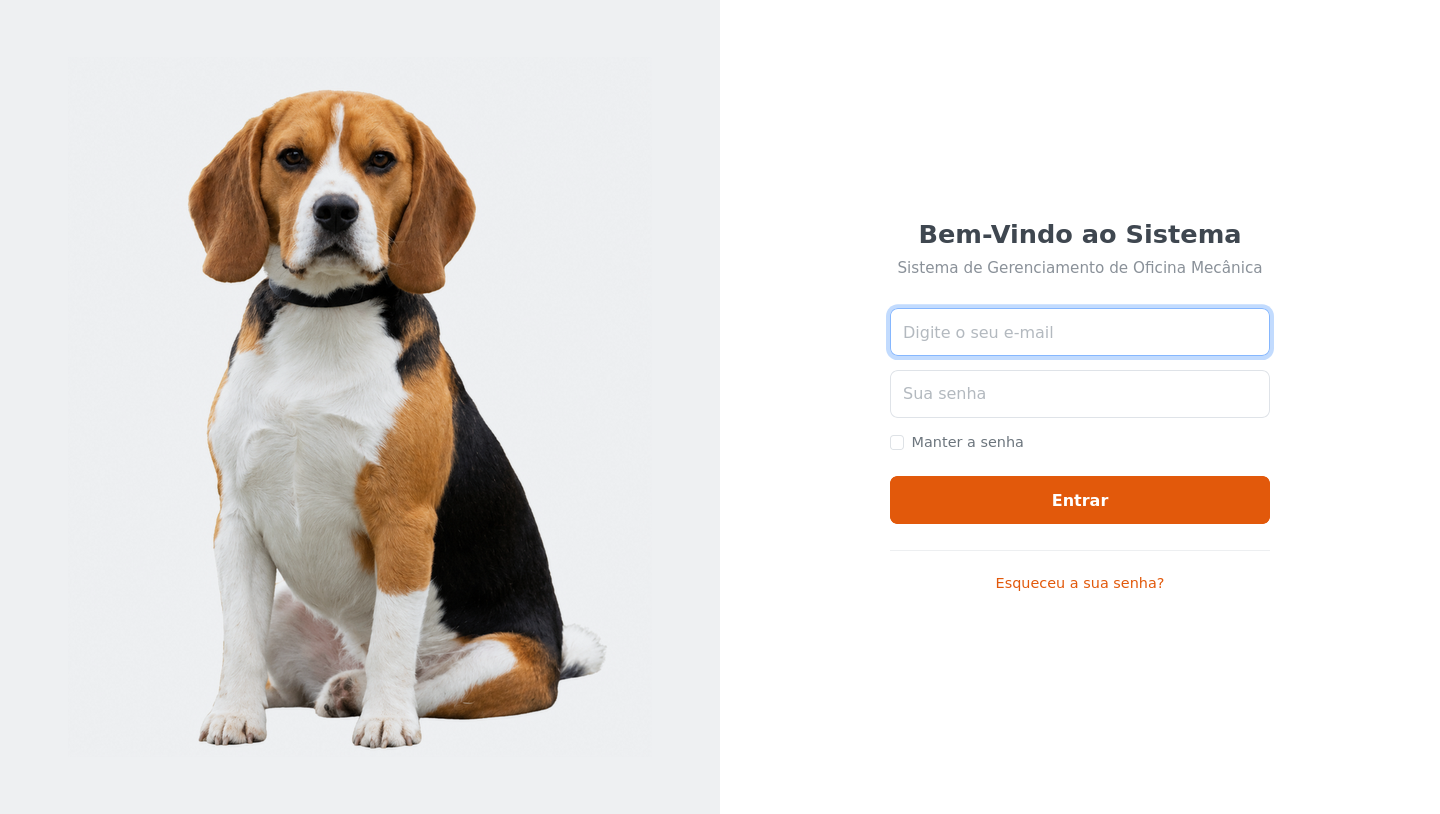
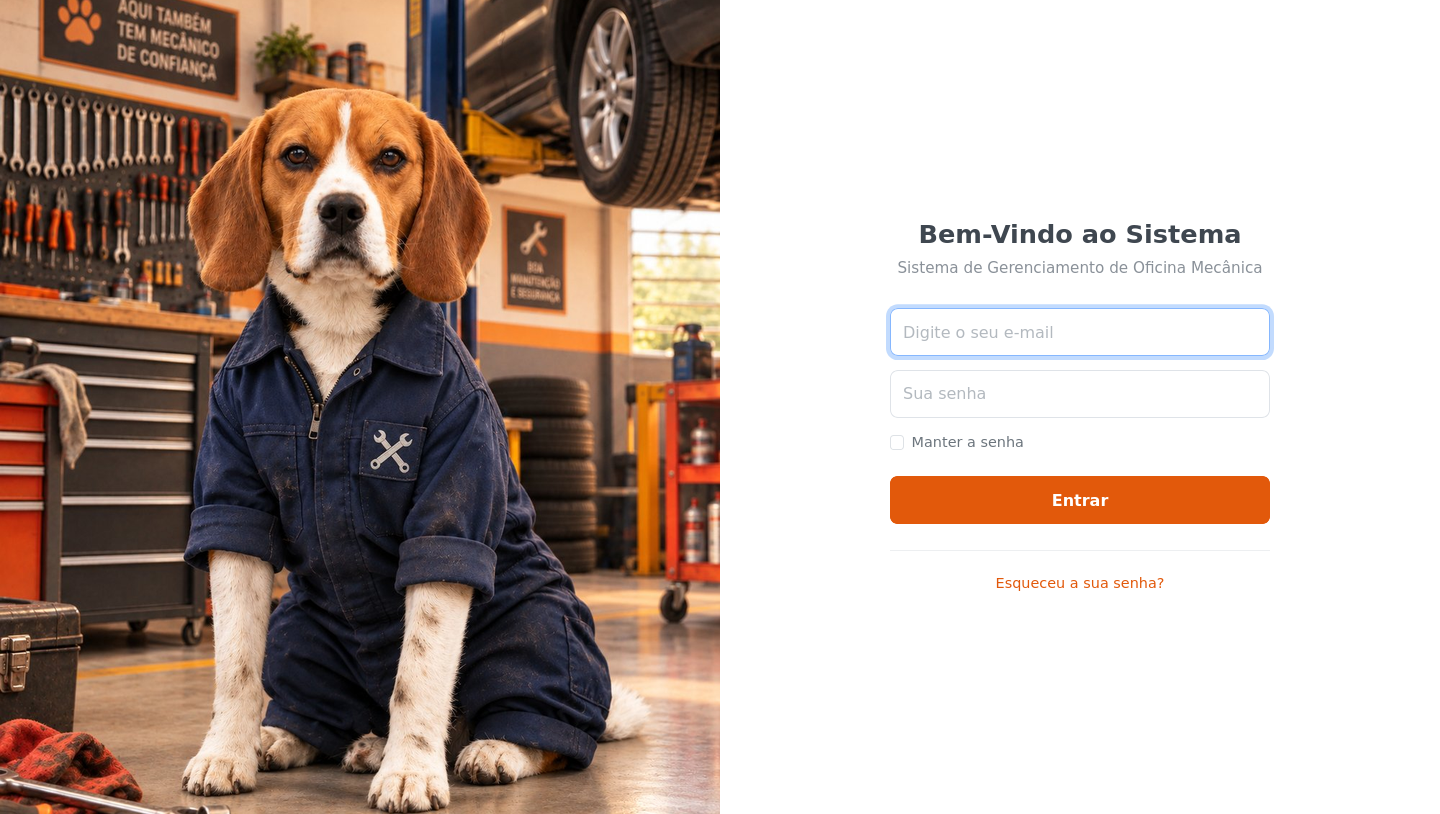
feat(ui): foto do mascote mecanico no login e remove aviso da tela de usuarios
A foto nova tem cenario proprio, entao passa a ocupar toda a metade
esquerda (object-fit: cover) em vez do recorte sobre fundo cinza.
Convertida para JPEG: 215 KB contra 1,5 MB do PNG original.

Atualiza os prints 00-login e 26-usuarios.

diff --git a/src/main/resources/static/css/style.css b/src/main/resources/static/css/style.css
@@ -449,19 +449,20 @@ body.recolhido .bl-grupo {
 
 .login-foto {
   flex: 1 1 50%;
-  display: grid;
-  place-items: center;
-  padding: 2rem;
-  background: #eef0f2;
+  position: relative;
+  overflow: hidden;
+  background: var(--oficina-grafite);
 }
 
-/* A foto tem fundo branco. O 'multiply' apaga esse branco contra o cinza do
-   painel, então o cachorro aparece recortado, sem retângulo em volta. */
+/* A foto tem cenário próprio (a oficina), então ocupa a metade inteira.
+   O 'cover' corta as sobras sem distorcer; o foco fica no rosto do cachorro. */
 .login-foto img {
-  max-width: 100%;
-  max-height: 86vh;
-  object-fit: contain;
-  mix-blend-mode: multiply;
+  position: absolute;
+  inset: 0;
+  width: 100%;
+  height: 100%;
+  object-fit: cover;
+  object-position: center 30%;
 }
 
 .login-painel {
@@ -592,12 +593,11 @@ body.recolhido .bl-grupo {
   }
 
   .login-foto {
-    flex: 0 0 30vh;
-    padding: 1rem;
+    flex: 0 0 34vh;
   }
 
   .login-foto img {
-    max-height: 26vh;
+    object-position: center 25%;
   }
 
   .login-painel {

diff --git a/src/main/resources/static/index.html b/src/main/resources/static/index.html
@@ -268,15 +268,6 @@
 
       <!-- ===================== USUÁRIOS (só ADMIN) ===================== -->
       <section class="pagina" id="pgUsuarios">
-        <div class="alert alert-secondary d-flex gap-2 align-items-start">
-          <i class="bi bi-shield-lock fs-5"></i>
-          <div class="small mb-0">
-            Contas que entram no sistema. A senha nunca é guardada: o banco grava apenas
-            o resultado de um <strong>PBKDF2</strong> com sal aleatório.
-            <strong>ADMIN</strong> administra usuários; <strong>ATENDENTE</strong> opera o dia a dia.
-          </div>
-        </div>
-
         <div class="barra-acoes">
           <div class="input-group busca">
             <span class="input-group-text"><i class="bi bi-search"></i></span>

diff --git a/src/main/resources/static/login.html b/src/main/resources/static/login.html
@@ -14,7 +14,7 @@
 
   <!-- metade da esquerda: o mascote -->
   <section class="login-foto">
-    <img src="img/beagle.png" alt="Beagle sentado, mascote da oficina">
+    <img src="img/beagle-mecanico.jpg" alt="Beagle vestido de mecânico, mascote da oficina">
   </section>
 
   <!-- metade da direita: o formulário -->

diff --git a/docs/ARQUITETURA.md b/docs/ARQUITETURA.md
@@ -70,7 +70,7 @@ Se o professor perguntar "onde está o controle de transação?", é aqui.
 | `static/index.html` | Menu lateral + 6 páginas (Dashboard, Clientes, Veículos, Serviços, OS, Usuários) e os modais. |
 | `static/js/app.js` | Um bloco por módulo, sempre: `carregar` → `abrirModal` → `submit` → `excluir`. No topo ficam a sessão, o token CSRF e a navegação. |
 | `static/css/style.css` | Identidade visual, menu lateral, dashboard e a via impressa; o resto é Bootstrap. |
-| `static/img/beagle.png` | Mascote da tela de login. Fica no classpath como os demais estáticos. |
+| `static/img/beagle-mecanico.jpg` | Mascote da tela de login. Fica no classpath como os demais estáticos. |
 | `static/vendor/` | jQuery e Bootstrap locais — o projeto roda sem internet. |
 
 Os gráficos do dashboard (rosca e barras) são **SVG montado à mão** em
